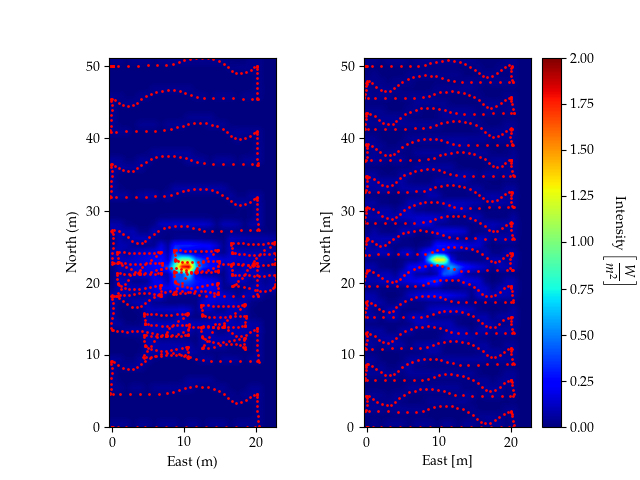
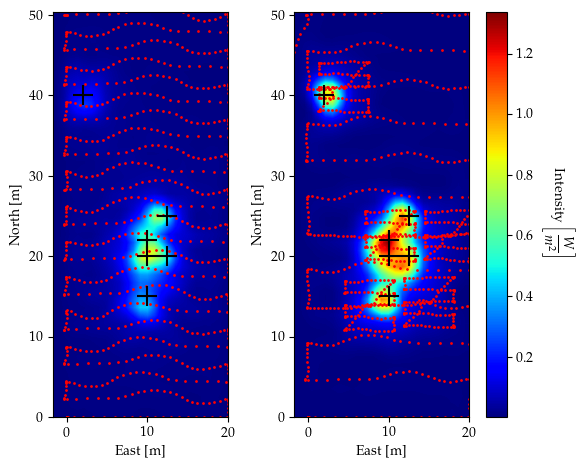
Better plots yo

diff --git a/catkin_ws/src/aur_planner/scripts/grid.py b/catkin_ws/src/aur_planner/scripts/grid.py
@@ -98,14 +98,20 @@ def contMap(x, y, z,x2,y2,z2, gridsize,smooth, thres, sat_limit, sources):
 
 
     fig = plt.figure()
+    plt.rcParams.update({
+        "text.usetex": True,
+        "font.family": "serif",
+        "font.serif": ["Palatino"],
+    })
     ax = fig.add_subplot(1, 2, 1)
     #Add the vmin and vmax arguments to set the color scale
     ax.imshow(data,cmap = clmap, extent=[min(X),max(X),min(Y),max(Y)],
                    origin="lower", interpolation='bilinear', vmin = _min, vmax = _max)
+    plt.tight_layout()
     plt.scatter(x,y,s = 1, color = 'r')
     plt.scatter(sources[0],sources[1],s = 200, color = 'k', marker = "+")
-    plt.xlabel("East (m)")
-    plt.ylabel("North (m)")
+    plt.xlabel("East [m]")
+    plt.ylabel("North [m]")
     ax.autoscale(False)
     ax.set_xlim([min(X), max(X)])
     ax.set_ylim([min(Y), max(Y)])
@@ -114,18 +120,21 @@ def contMap(x, y, z,x2,y2,z2, gridsize,smooth, thres, sat_limit, sources):
     #Add the vmin and vmax arguments to set the color scale
     ax2.imshow(data2,cmap = clmap, extent=[min(X),max(X),min(Y),max(Y)],
                    origin="lower", interpolation='bilinear', vmin = _min, vmax = _max)
+    plt.tight_layout()
     plt.scatter(x2,y2,s = 1, color = 'r')
     plt.scatter(sources[0],sources[1],s = 200, color = 'k', marker = "+")
     ax2.autoscale(False)
     norm = mpl.colors.Normalize(vmin=_min, vmax=_max)
     sm = plt.cm.ScalarMappable(norm=norm, cmap = clmap)
-    cbar = plt.colorbar(sm).ax.set_ylabel("Intensity ", rotation=270, labelpad=15)
+    cbar = plt.colorbar(sm).ax.set_ylabel(r"Intensity \bigg[$\displaystyle\frac{W}{m^2}$\bigg]", rotation=270, labelpad=30)
     plt.xlabel("East [m]")
     plt.ylabel("North [m]")
     ax2.set_xlim([min(X), max(X)])
     ax2.set_ylim([min(Y), max(Y)])
-    fig.savefig('sim_map.eps',format="eps")
-    plt.show()
+    plt.tight_layout()
+    fig.tight_layout()
+    fig.savefig('sim_map.png',format="png", bbox_inches='tight')
+    # plt.show()
     
 
 def is_float(element):
@@ -137,7 +146,7 @@ def is_float(element):
 
 def main():
     
-    f = open('poses-simulation05.txt',"r")
+    f = open('../../../../EVERYTHING/scripts/poses-simulation05.txt',"r")
  
     data = ([[float(elem) for elem in row.split(",") if is_float(elem)] for row in f.read().split("\n") ])
 
@@ -146,7 +155,7 @@ def main():
     meas = data2[:,1]
     x = data2[:,2]
     y = data2[:,3]
-    f = open('poses-simulation07.txt',"r")
+    f = open('../../../../EVERYTHING/scripts/poses-simulation07.txt',"r")
     data = ([[float(elem) for elem in row.split(",") if is_float(elem)] for row in f.read().split("\n") ])
     data2 = np.array(data[1:-1])
     
